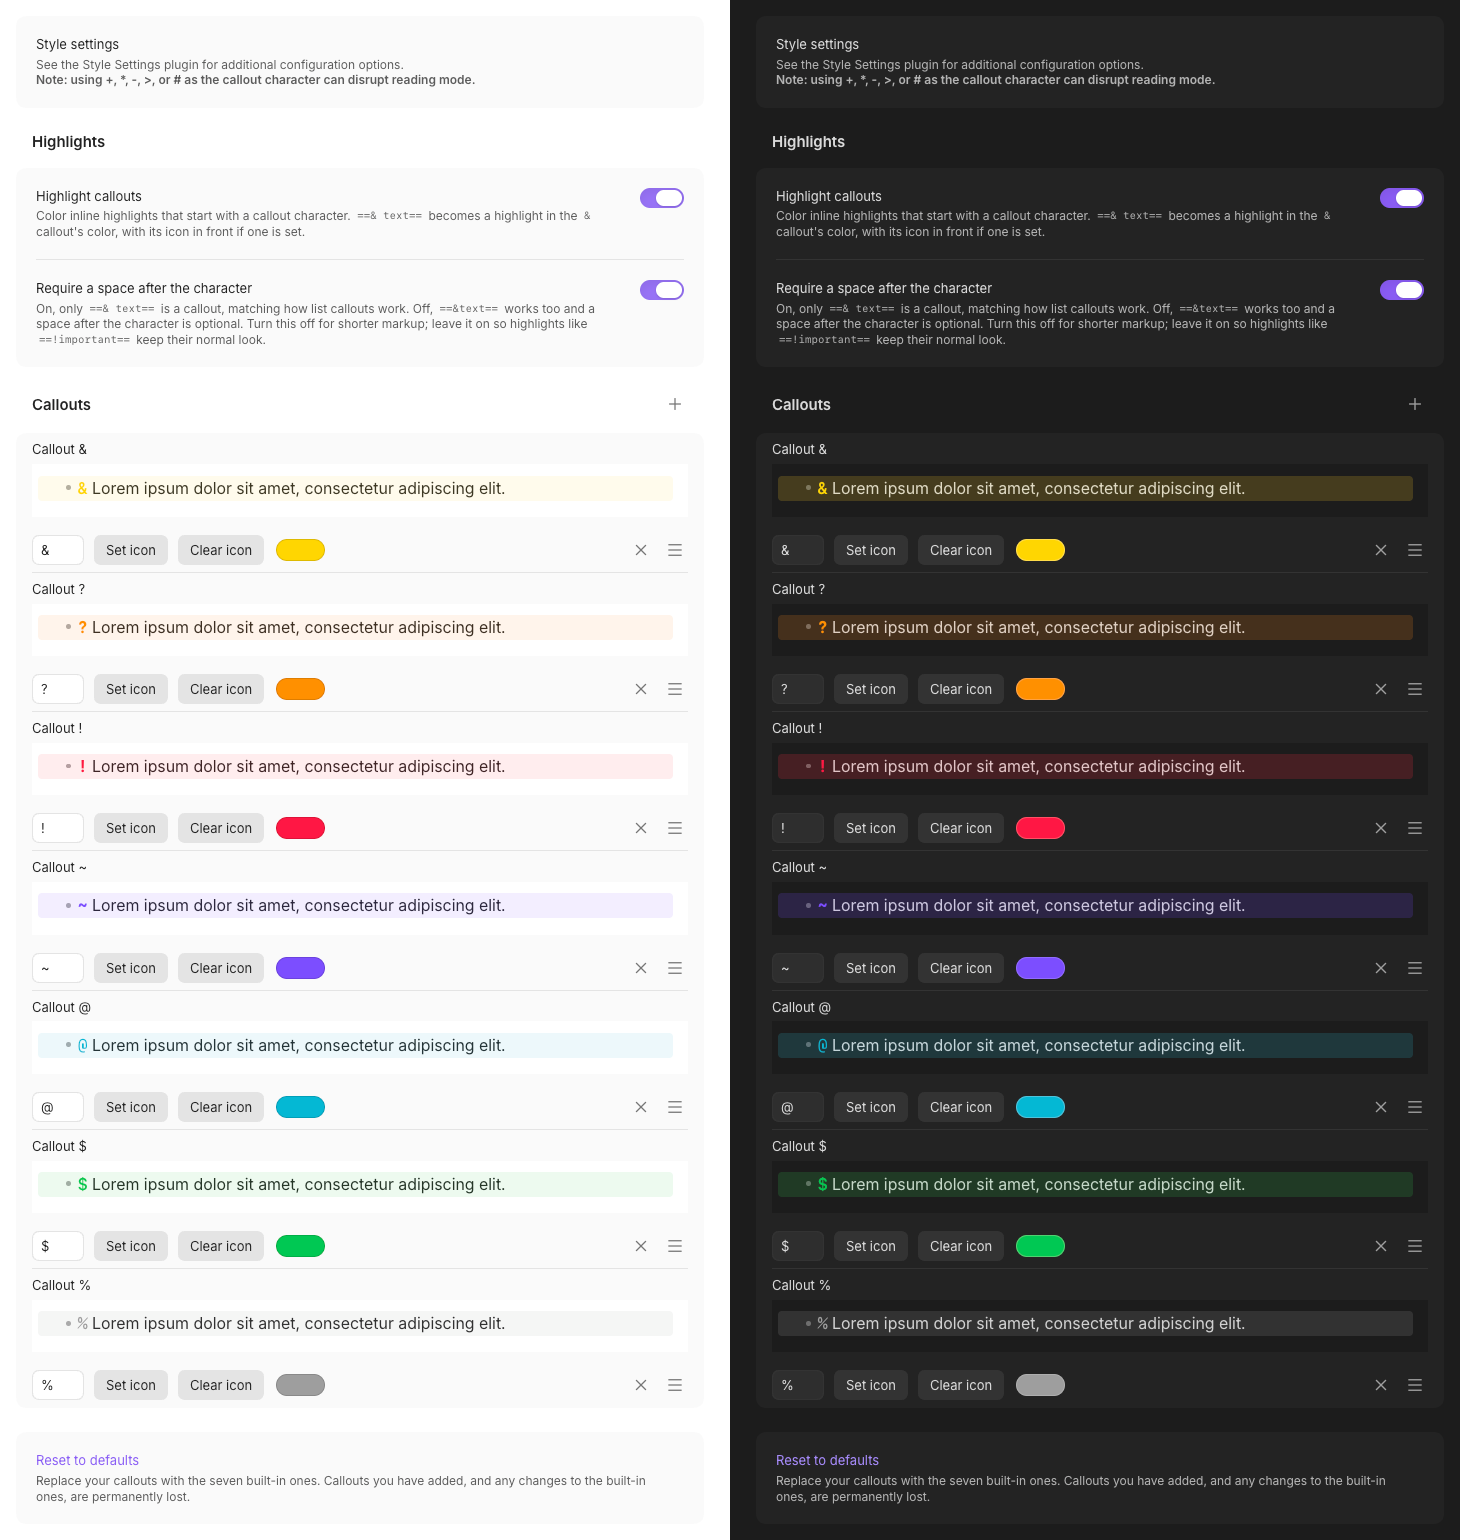
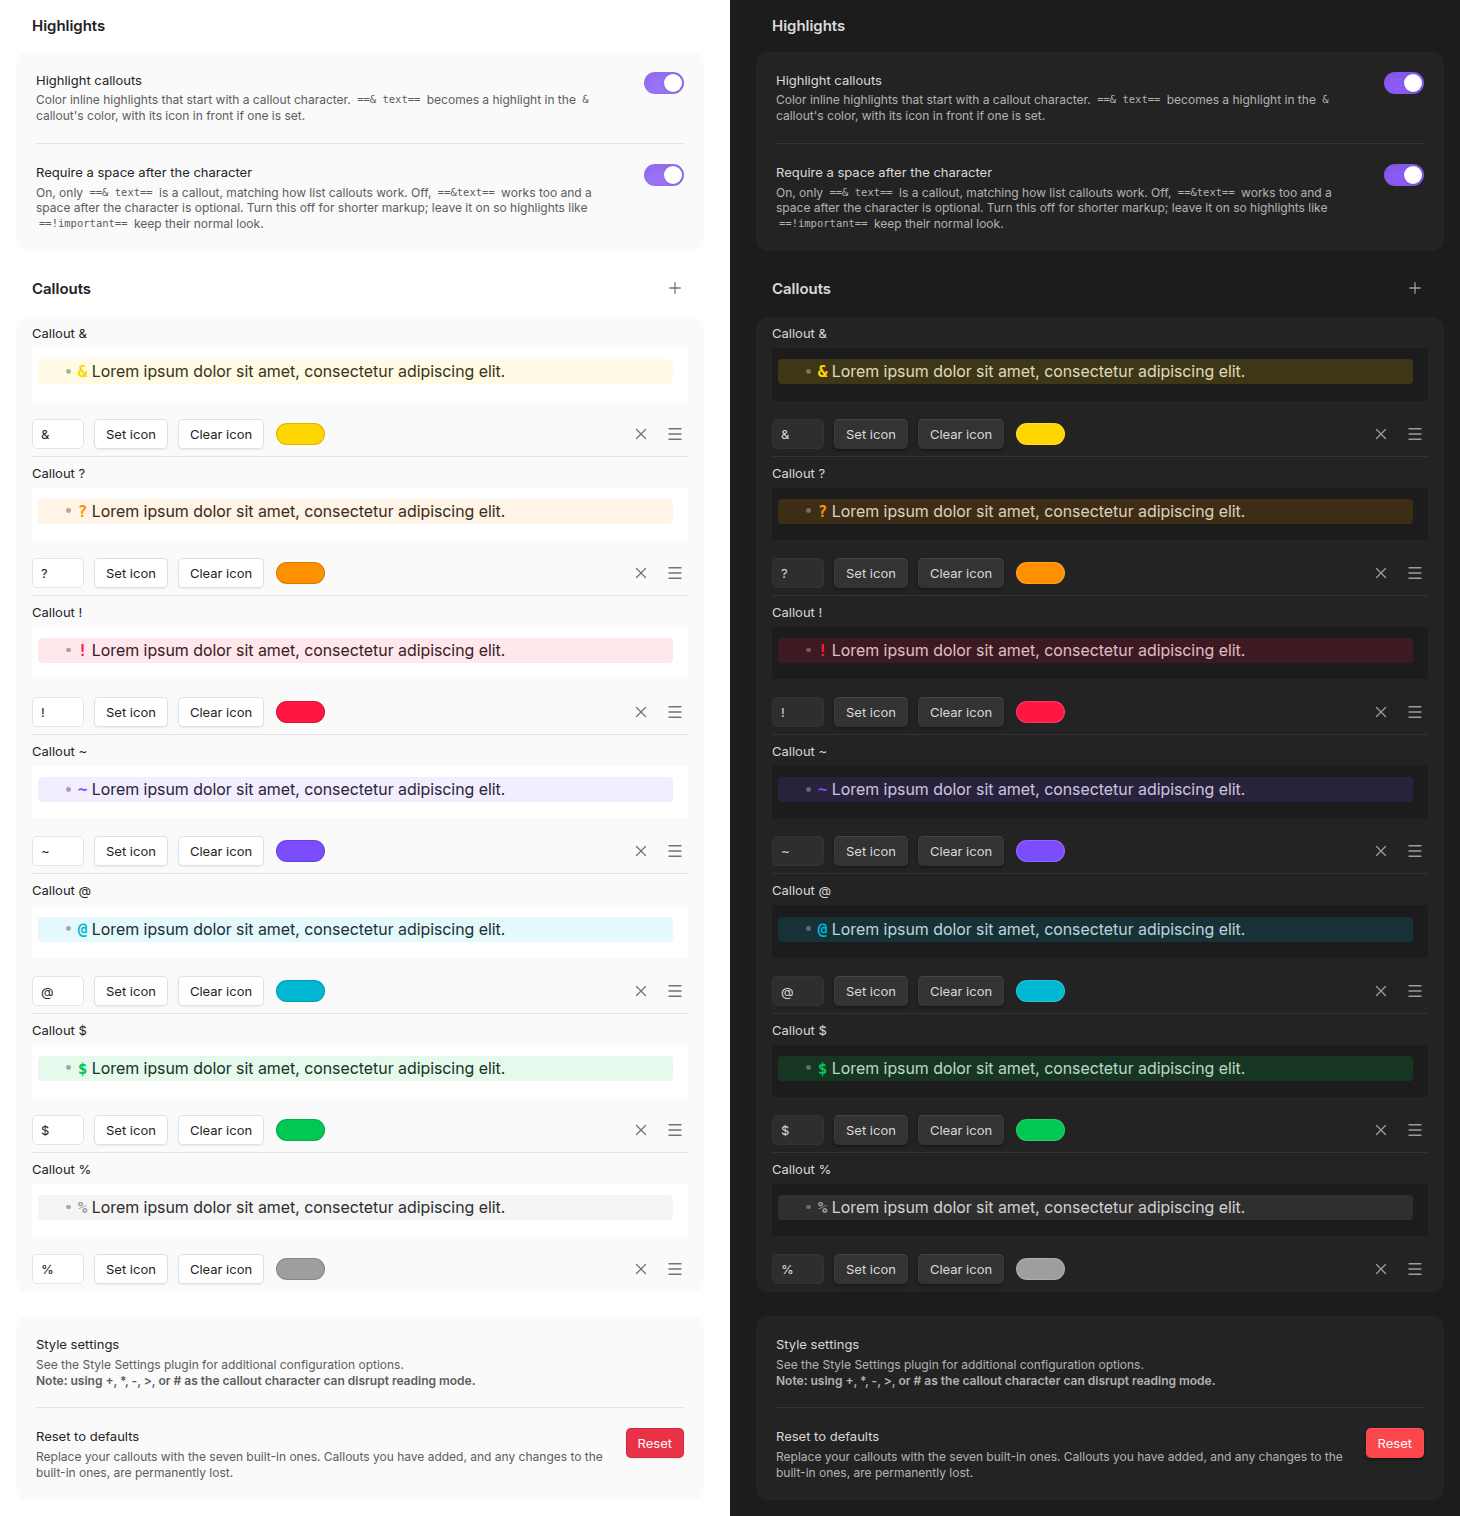
Move the style note under the callouts and make the reset a proper button

diff --git a/src/settingsTab.ts b/src/settingsTab.ts
@@ -555,10 +555,6 @@ export class ListCalloutSettingTab extends PluginSettingTab {
 
     definitions.push(
       {
-        name: 'Style settings',
-        desc: this.styleSettingsDesc(),
-      },
-      {
         type: 'group',
         heading: 'Highlights',
         items: [
@@ -600,13 +596,30 @@ export class ListCalloutSettingTab extends PluginSettingTab {
           },
         },
       },
+      // Below the list rather than at the top of the tab: the padding and
+      // intensity it points to, and the characters it warns about, are the
+      // callouts' concern. A list definition holds only its rows, so this is
+      // the nearest an aside can sit to them.
+      {
+        name: 'Style settings',
+        desc: this.styleSettingsDesc(),
+      },
       {
         name: 'Reset to defaults',
         desc: RESET_DESC,
-        action: () => {
-          new ConfirmResetModal(this.plugin.app, () => {
-            void this.runReset();
-          }).open();
+        // A real button, styled as the destructive step it is, rather than
+        // the link-like row an `action` definition renders as.
+        render: (setting: Setting) => {
+          setting.addButton((btn) =>
+            btn
+              .setButtonText('Reset')
+              .setWarning()
+              .onClick(() => {
+                new ConfirmResetModal(this.plugin.app, () => {
+                  void this.runReset();
+                }).open();
+              })
+          );
         },
       }
     );
